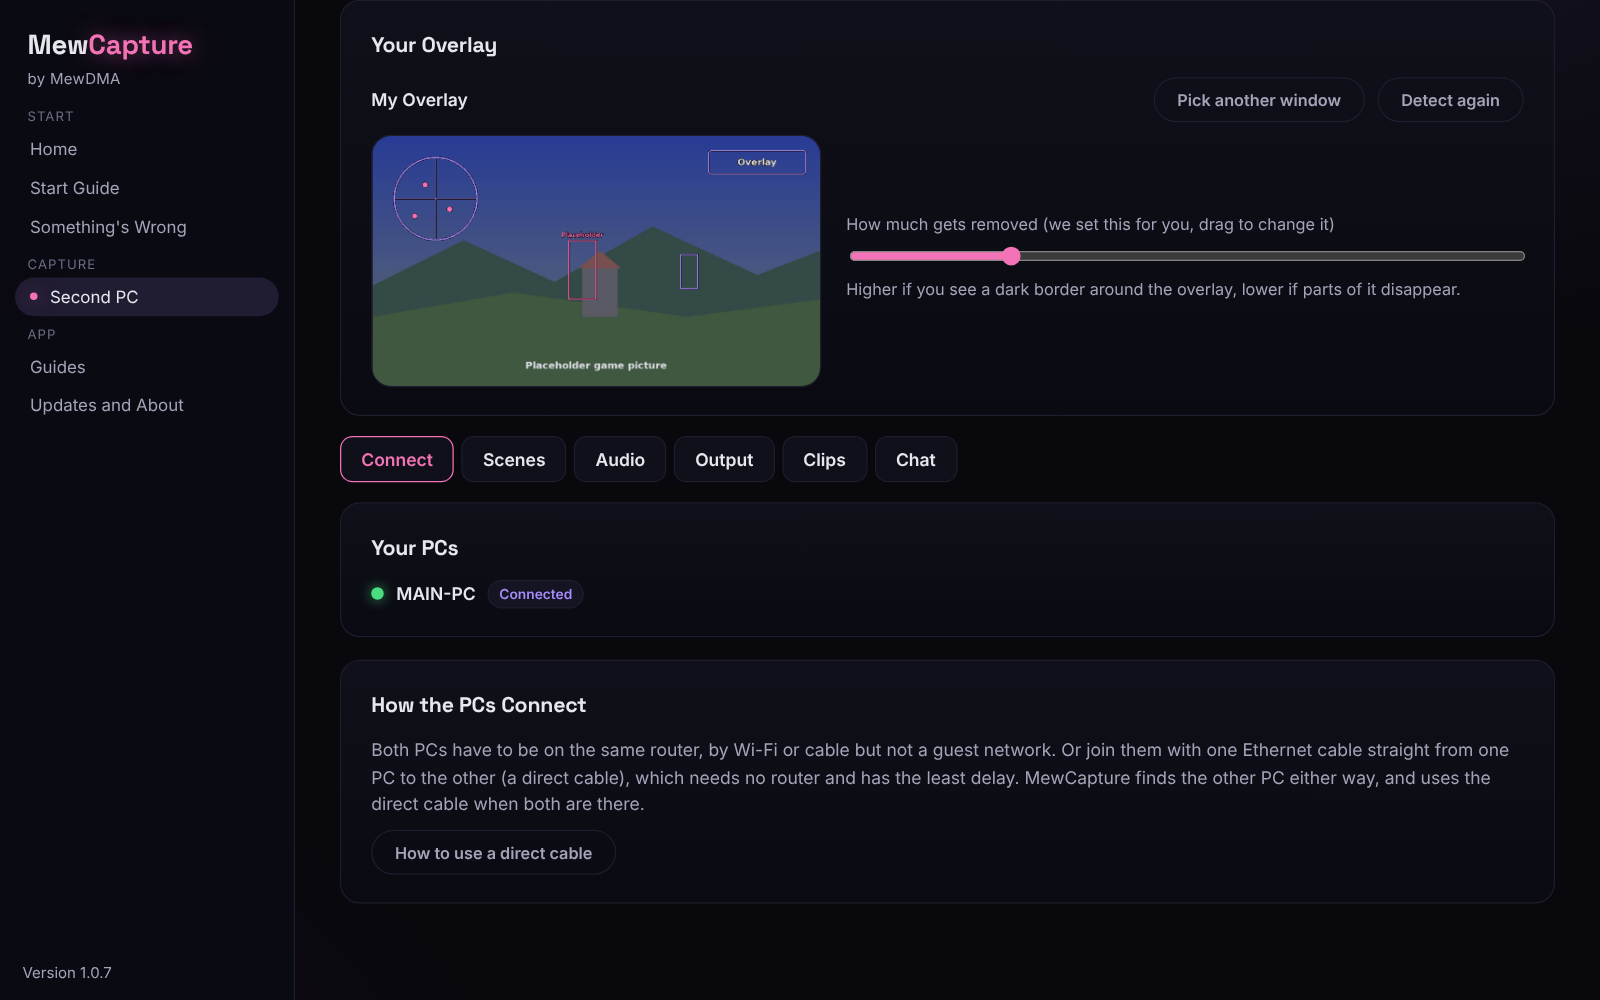
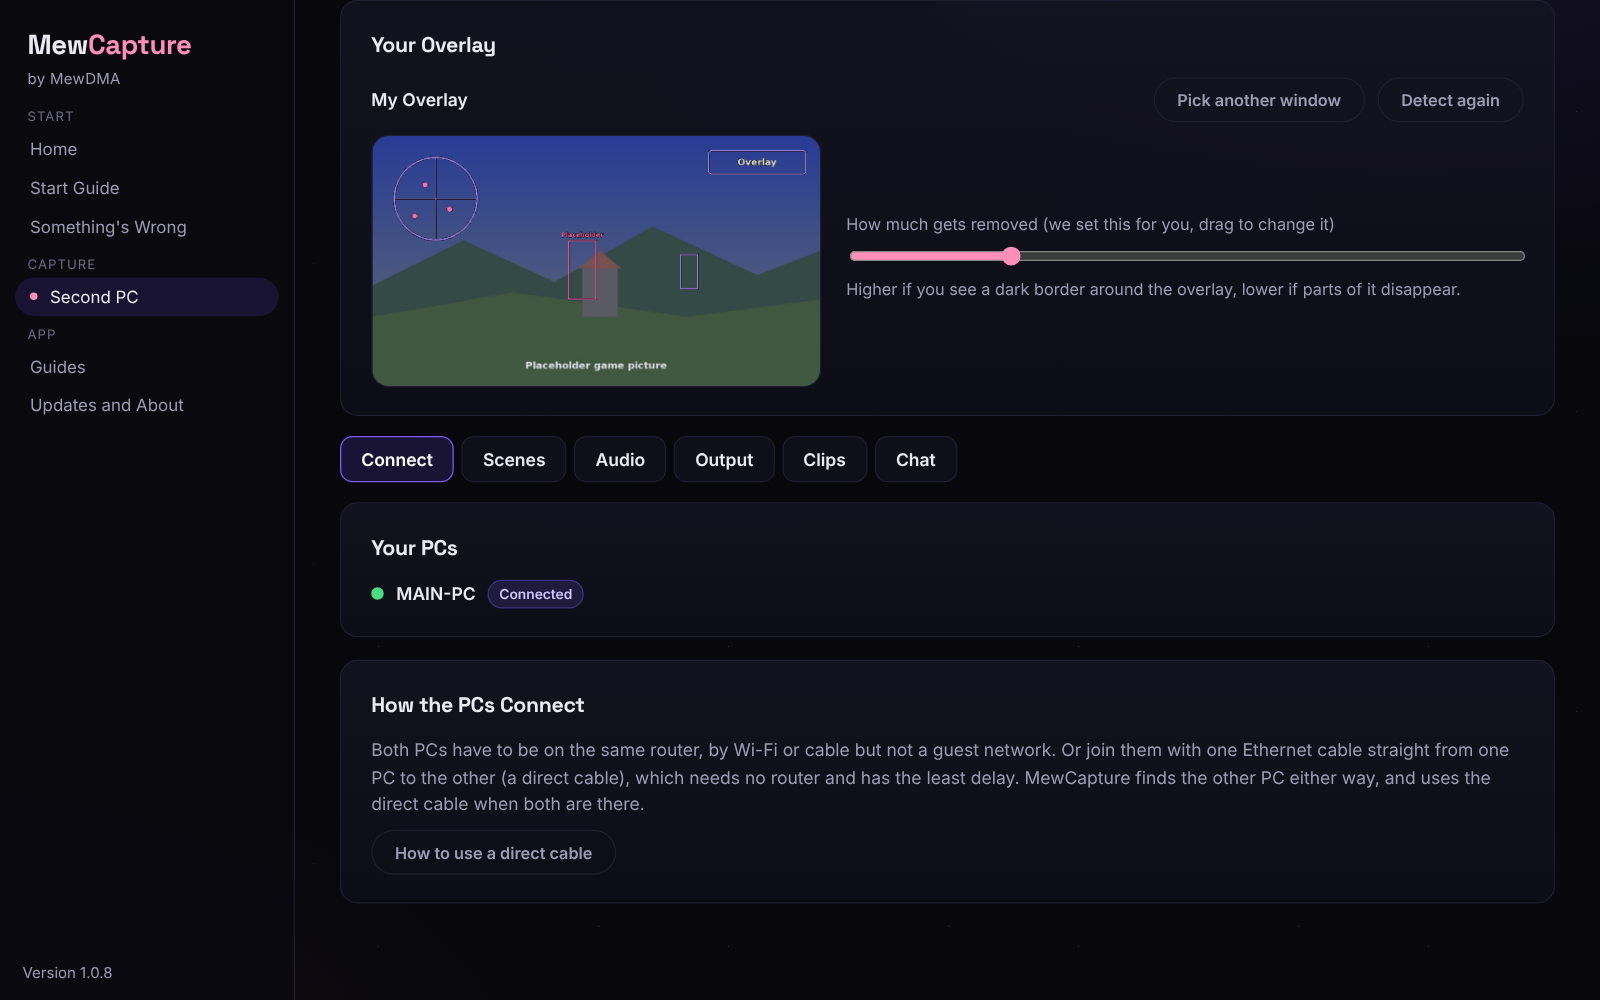
Update docs

diff --git a/docs/screenshots/README.md b/docs/screenshots/README.md
@@ -1,6 +1,6 @@
 # MewCapture screenshots
 
-Real screenshots of the MewCapture app for mewdma.net and its Learn guides. Each one is 1600x1000 (16:10) PNG. Taken on **MewCapture 1.0.7**.
+Real screenshots of the MewCapture app for mewdma.net and its Learn guides. Each one is 1600x1000 (16:10) PNG. Taken on **MewCapture 1.0.8**.
 
 The app ran with placeholder data: the PCs are called MAIN-PC and SECOND-PC, the addresses are 192.168.0.x, the folder is C:\Users\you, and the game and overlay pictures are placeholders. No stream keys, names, emails or tokens are in any of them.
 
@@ -26,5 +26,23 @@ The app ran with placeholder data: the PCs are called MAIN-PC and SECOND-PC, the
 | capture-somethings-wrong.png | Something's Wrong: everything it checked and the summary you copy into a ticket. |
 | capture-obs-setup.png | Set up OBS for me, done: OBS now has a MewCapture scene collection with the projector and its sound. |
 | capture-red-warning.png | The red warnings when the second PC's output comes back to the main PC (MewCapture's output or OBS with the projector). |
+
+## Every main screen (1280x800)
+
+| File | What it shows |
+| --- | --- |
+| screen-home.png | Home: the safety note, Start guide and the four cards. |
+| screen-start-guide.png | Start guide: pick main PC or second PC. |
+| screen-main-pc.png | Main PC: Start sending, This PC, your second PC and what to send. |
+| screen-main-pc-sound-only.png | Main PC with Sound only picked, and the apps whose sound goes along. |
+| screen-second-pc.png | Second PC: getting the game, Your Overlay and the Connect tab. |
+| screen-second-scenes.png | Scenes: the live preview with your sources on it. |
+| screen-second-audio.png | Audio: the mixer and Listen to the recording. |
+| screen-second-output.png | Output: presets, size and quality, Start recording with Sound only, and Stream. |
+| screen-second-clips.png | Clips: Clip That with the overlay and clean, and your clips. |
+| screen-second-chat.png | Chat: Twitch, YouTube and Kick, pop out or dock. |
+| screen-somethings-wrong.png | Something's Wrong: what it checked and the ticket summary. |
+| screen-guides.png | Guides: every step with a picture. |
+| screen-updates-about.png | Updates and About: switch PC, updates and about. |
 
 Not here yet: capture-install-firstrun.png. It's Windows' own SmartScreen or firewall window, so it has to be taken on a Windows PC.

diff --git a/docs/guide.md b/docs/guide.md
@@ -38,7 +38,7 @@ The second PC shows Found with the main PC's name. Check it shows the same code 
 
 ### Step 6: Pick what to send and press Start (main PC)
 
-Pick Whole screen and which screen (works with every game), or One window and your game's window. Tick the apps you want to hear like the game and Discord, and press Start sending. You can also press Start sending on the main PC from the second PC while MewCapture is open on both.
+Pick Whole screen and which screen (works with every game), One window and your game's window, or Sound only to send just the sound with no picture. Tick the apps you want to hear like the game and Discord, and press Start sending. You can also press Start sending on the main PC from the second PC while MewCapture is open on both.
 
 ![Pick what to send and press Start](screenshots/main-full.png)
 
@@ -123,6 +123,9 @@ Use Ethernet for the main PC if you can. Wi-Fi works but drops show up as stutte
 ![When the PCs can't find each other](screenshots/network.png)
 
 ## Questions
+
+**Can I send just the sound?**<br>
+Yes. Pick Sound only under What to Send on the main PC and tick the apps you want. The second PC shows Getting the sound and puts it in the mixer like always. Record it on its own with Sound only, no picture in Output (that saves an .m4a), or stream your scenes with that sound under them.
 
 **What can the hotkeys do?**<br>
 Clip That (with the overlay or clean), switching scenes and showing or hiding the projector. Click a hotkey box and press the keys you want, they work on both PCs so you can clip while you play.

diff --git a/CHANGELOG.md b/CHANGELOG.md
@@ -2,6 +2,12 @@
 
 All changes to MewCapture, newest first.
 
+## v1.0.8
+
+- MewCapture looks like mewdma.net now: a dark space background, violet and pink accents, Space Grotesk headings and Inter for everything else, without the glows. Everything works the same as before, every MC error code too.
+- Sound only: the main PC can send just the sound you pick, no picture. Pick Sound only under What to Send.
+- The second PC shows Getting the sound and puts it in the mixer like always. Record it on its own with Sound only, no picture in Output, which saves an .m4a, or stream your scenes with that sound under them.
+
 ## v1.0.7
 
 - Recording works again. It said MC-205 and saved nothing because the encoder check and the recording needed the projector to keep changing, and a still picture (waiting for the game, a paused game) stopped both. Clip That had the same cause and saves clips again.
